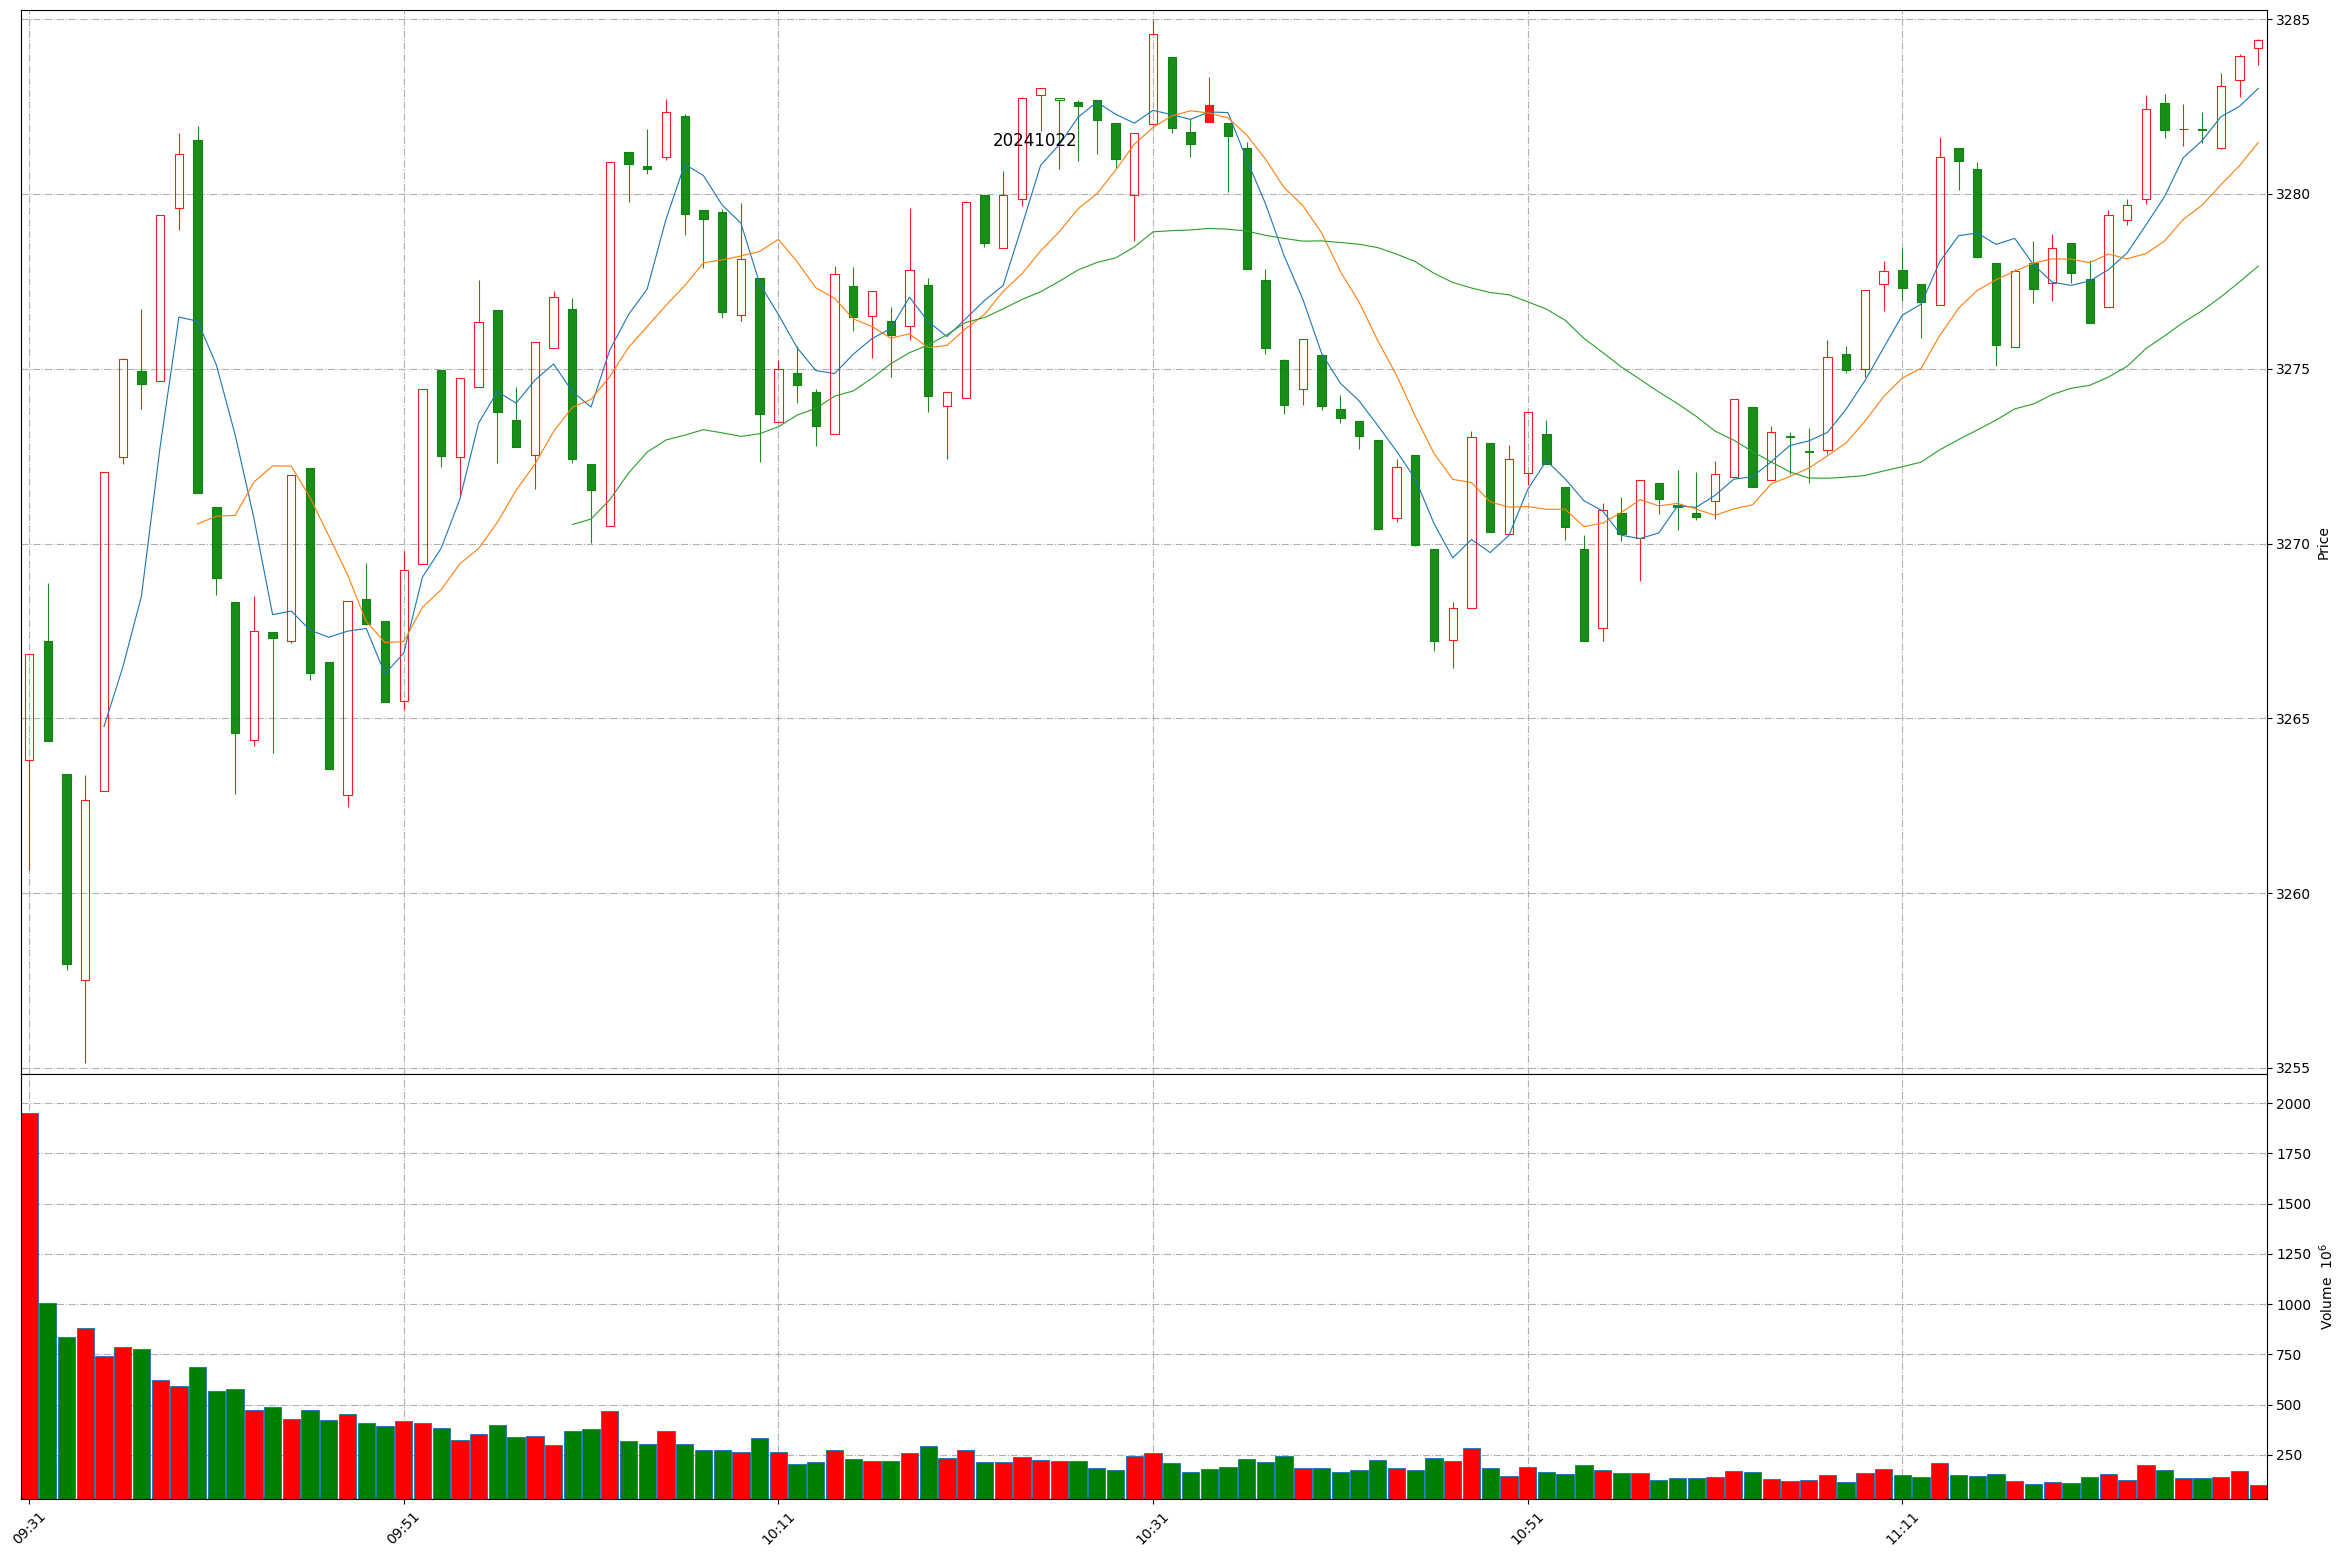
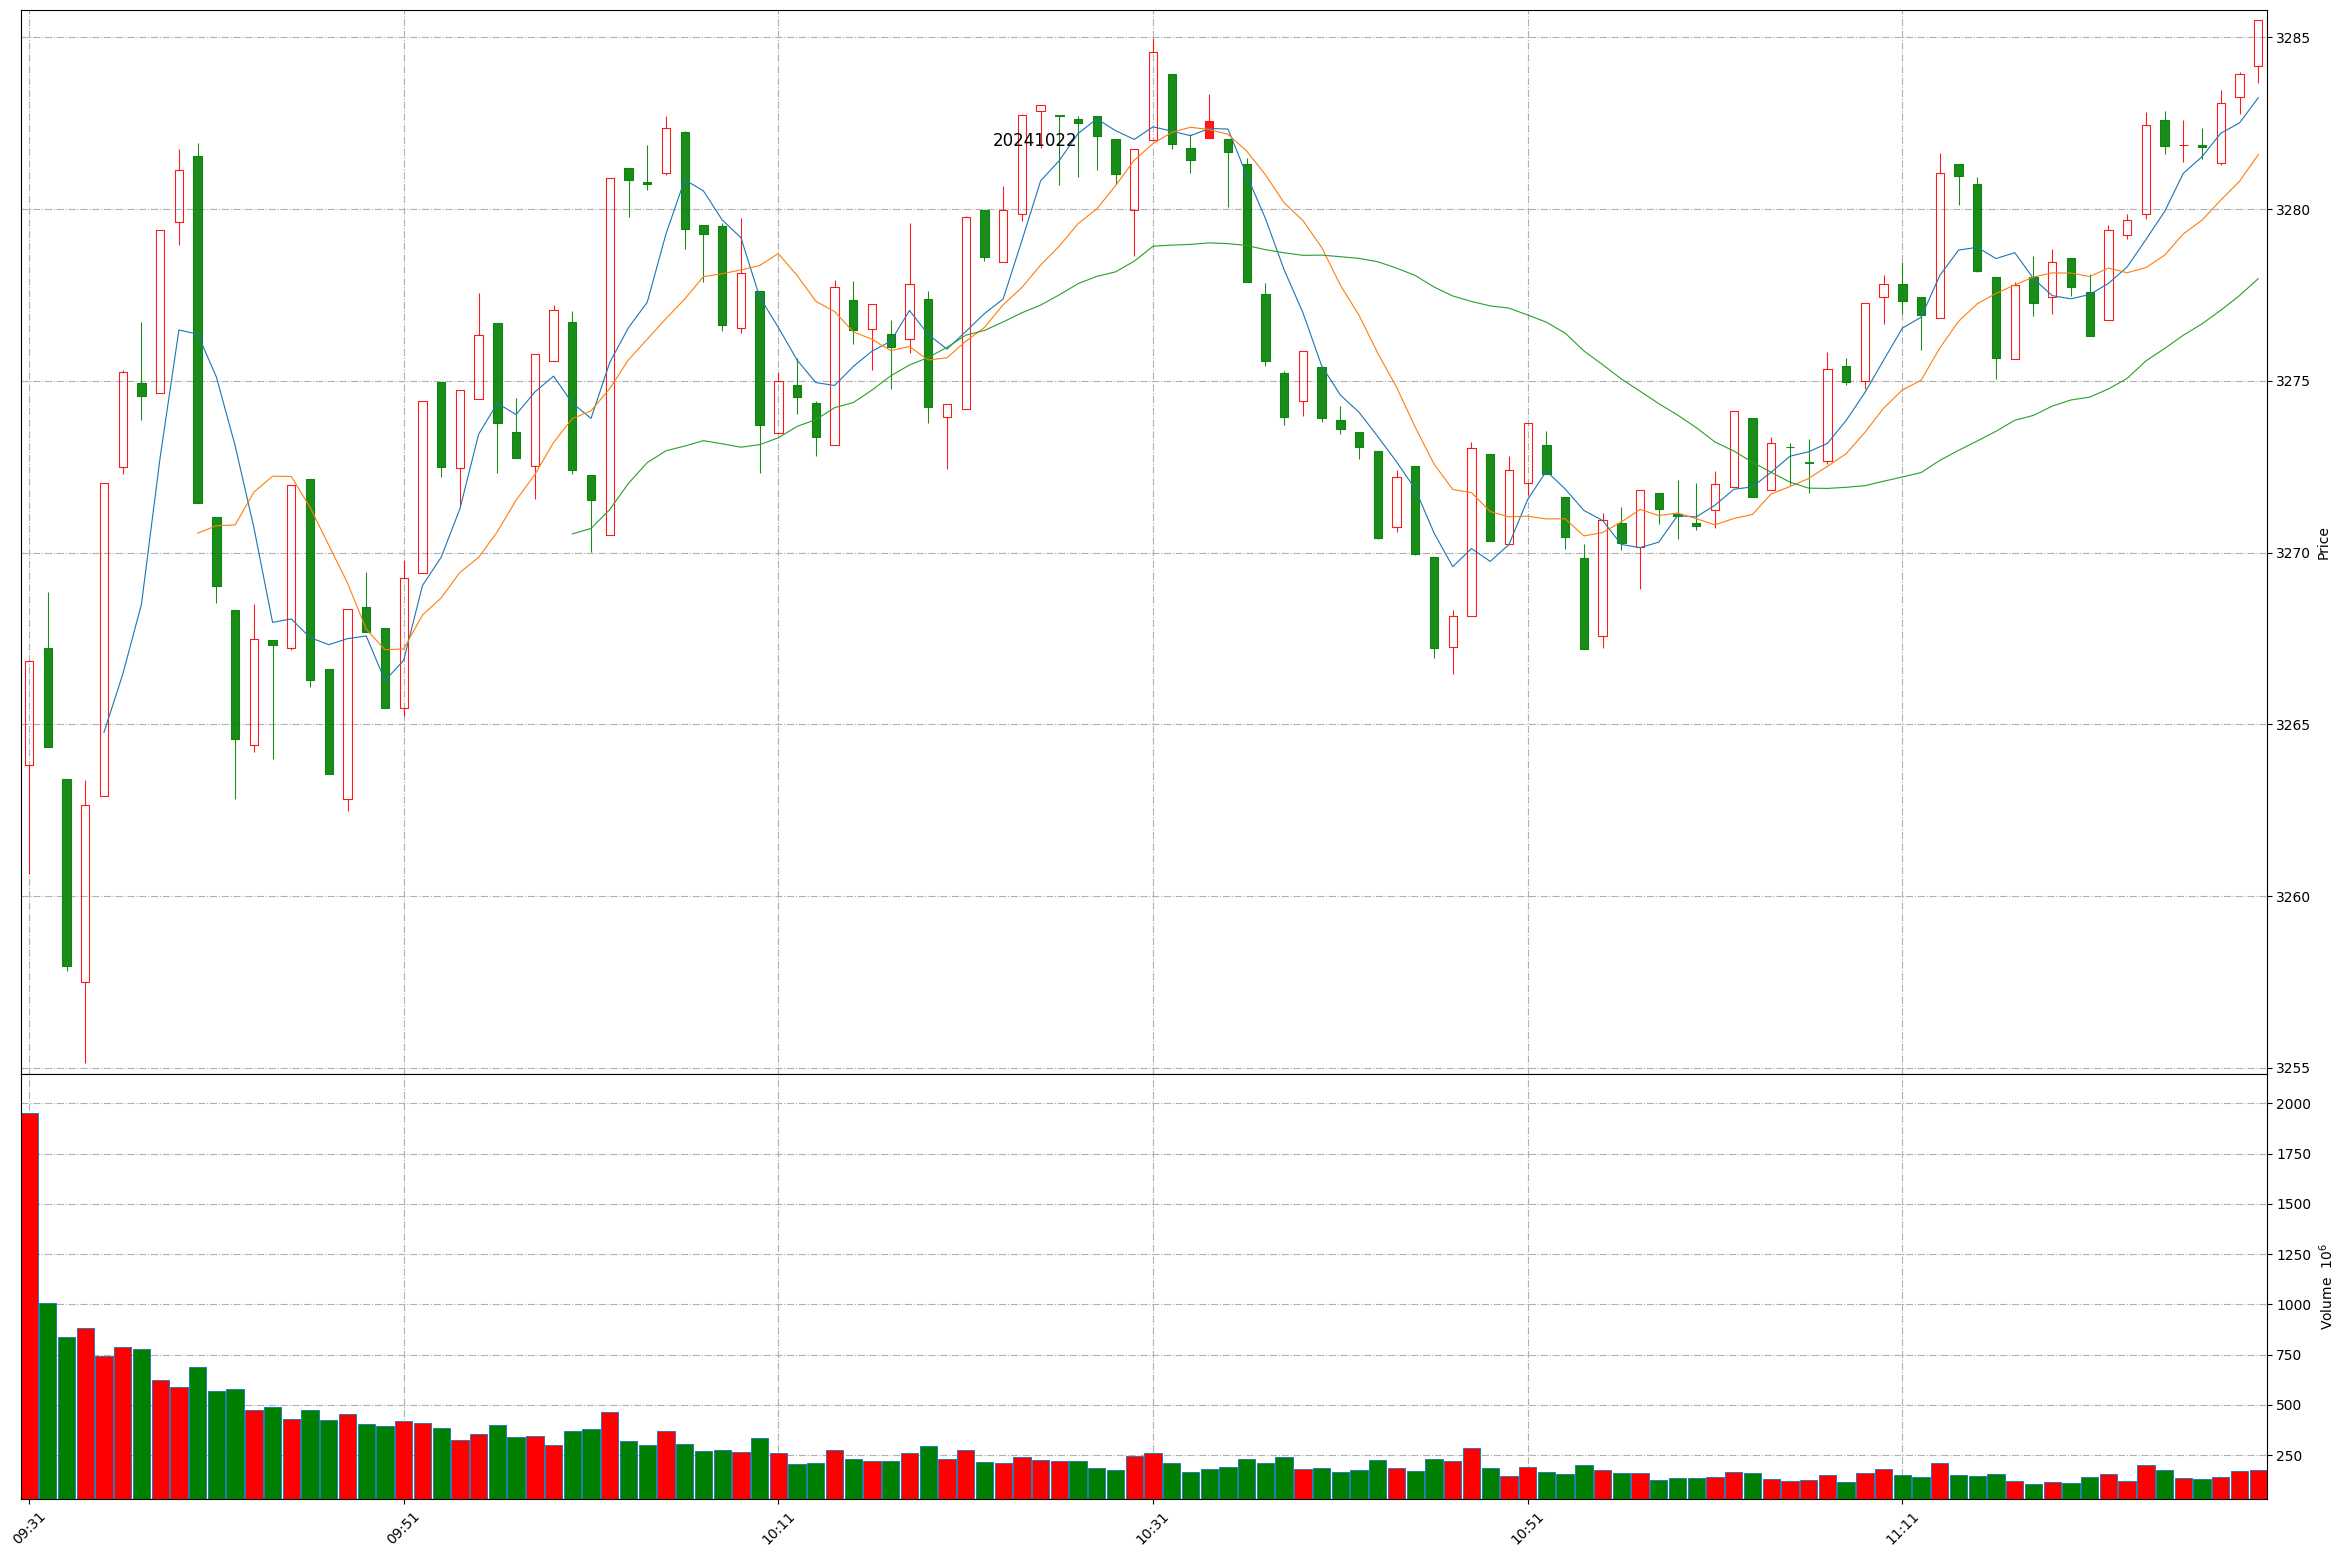
Github action update at 2024-10-22 11:32:35.

diff --git a/README.md b/README.md
@@ -1,11 +1,11 @@
 
 # Daily-A-share-market-quotes 每日 A 股指数（5min 更新）- 20241022
 
-### 上证指数 20241022 11:30
+### 上证指数 20241022 11:32
 ![](./fig/2024/10/20241022-sh000001.png)
 
-### 深证成指 20241022 11:30
+### 深证成指 20241022 11:32
 ![](./fig/2024/10/20241022-sz399001.png)
 
-### 北证50 20241022 11:30
+### 北证50 20241022 11:32
 ![](./fig/2024/10/20241022-bj899050.png)
